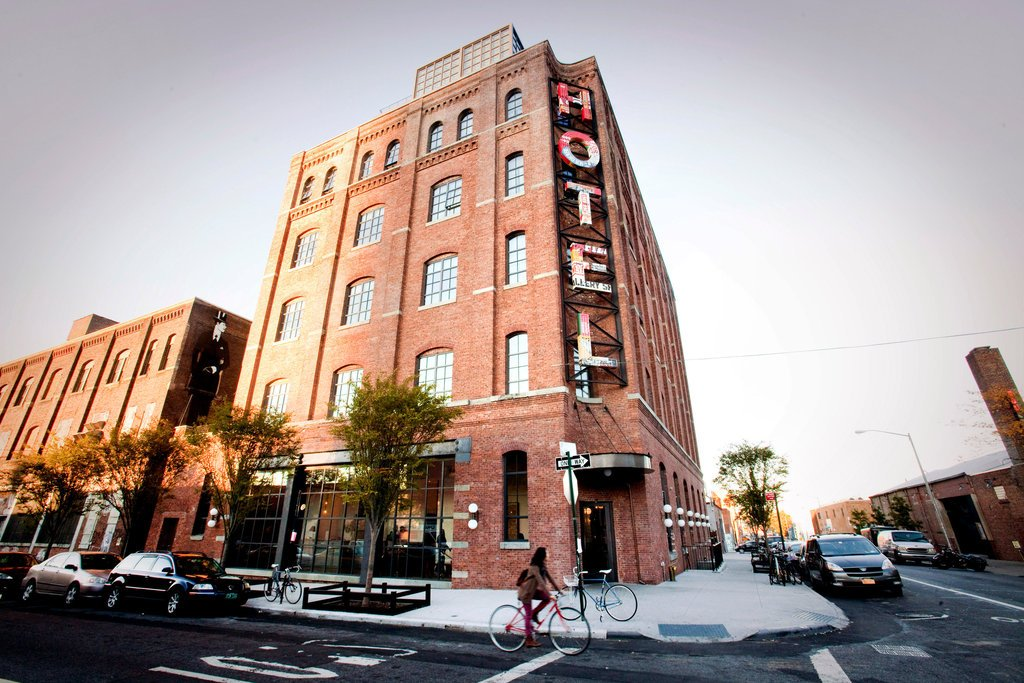
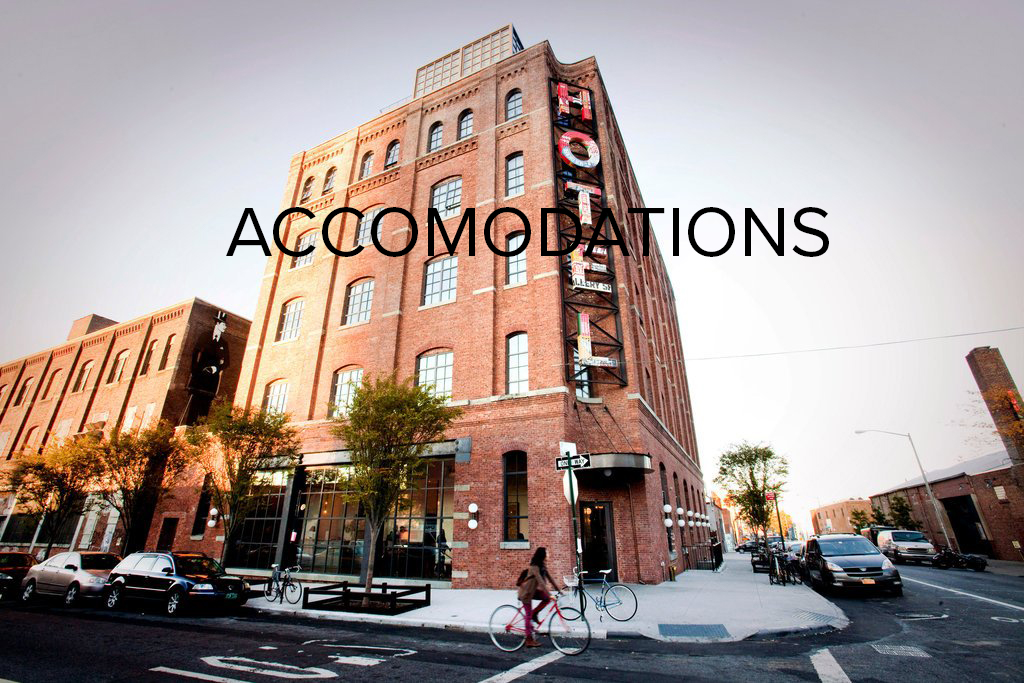
UPDATE

Changed region(s): [[0.2188, 0.3075, 0.8125, 0.3997]]

diff --git a/accommodations.html b/accommodations.html
@@ -44,7 +44,6 @@
 <div class="container">
   <img src="images2/nyc.jpg" alt="Norway" style="width:100%;">
 
-  <div class="centered">ACCOMODATIONS</div>
 </div>
 
 
